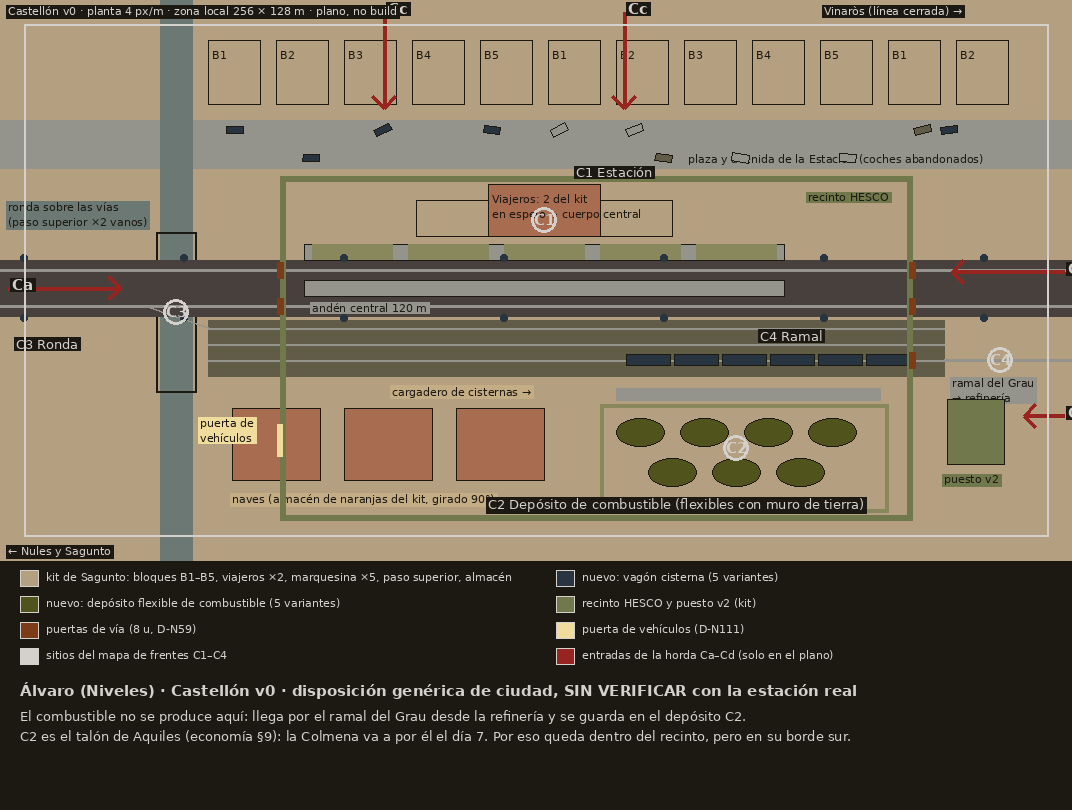
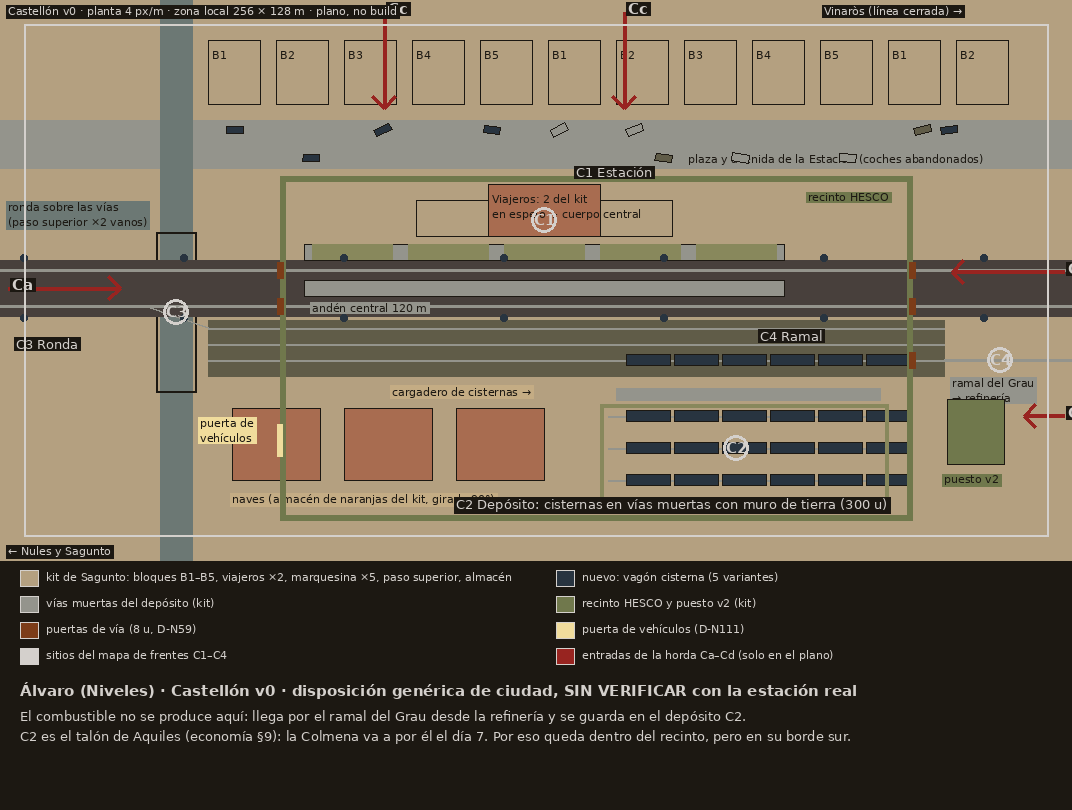
Castellón v0: cifras de Hugo y depósito con cisternas
Claude-Session: https://claude.ai/code/session_01A4RyjScdBuNc7GbjKkppYP

Changed region(s): [[0.4002, 0.4938, 0.8619, 0.6481], [0.0, 0.7407, 0.2463, 0.7716], [0.2771, 0.7407, 0.3078, 0.7716]]

diff --git a/docs/niveles/herramientas/plano_castellon_v0.py b/docs/niveles/herramientas/plano_castellon_v0.py
@@ -45,8 +45,9 @@ T(117,86,"Viajeros: 2 del kit\nen espejo + cuerpo central","#1c1812",FS)
 for x in range(150,212,12): rot(x+6,44,11,2.8,0,"#283440")
 T(92,37.8,"cargadero de cisternas →","#1c1812",FS,"#c4ac84")
 R(148,34,214,37,fill="#94948c")
-for i,(x,z) in enumerate([(154,26),(170,26),(186,26),(202,26),(162,16),(178,16),(194,16)]):
-    d.ellipse([P(x-6,z+3.5),P(x+6,z-3.5)],fill="#50541c",outline="#1c1812")
+for z in (14,22,30):
+    L([(146,z),(214,z)],"#94948c",2)
+    for x in range(150,212,12): rot(x+6,z,11,2.8,0,"#283440")
 R(144,6,216,33,outline="#88885c",w=4)
 # naves de logística al suroeste (almacén de naranjas del kit, otra orientación)
 for x in (52,80,108): R(x,14,x+22,32,fill="#a86c50",outline="#1c1812")
@@ -62,7 +63,7 @@ T(196,86.5,"recinto HESCO","#1c1812",FS,"#70784c")
 rot(238,26,14.3,16.4,0,"#70784c"); T(230,16,"puesto v2","#1c1812",FS,"#70784c")
 def sitio(x,z,n,txt,dx,dz):
     d.ellipse([P(x-3.2,z+3.2),P(x+3.2,z-3.2)],outline="#d4d0cc",width=3); T(x-2.4,z+2.2,n,"#d4d0cc",FB); T(x+dx,z+dz,txt,"#d4d0cc",F,"#1c1812")
-sitio(130,79,"C1","C1 Estación",8,14); sitio(178,22,"C2","C2 Depósito de combustible (flexibles con muro de tierra)",-62,-12); sitio(38,56,"C3","C3 Ronda",-40,-6); sitio(244,44,"C4","C4 Ramal",-60,8)
+sitio(130,79,"C1","C1 Estación",8,14); sitio(178,22,"C2","C2 Depósito: cisternas en vías muertas con muro de tierra (300 u)",-70,-12); sitio(38,56,"C3","C3 Ronda",-40,-6); sitio(244,44,"C4","C4 Ramal",-60,8)
 def flecha(x0,z0,x1,z1,lab):
     L([(x0,z0),(x1,z1)],"#982420",4); a=np.arctan2(z1-z0,x1-x0)
     for s in (2.6,-2.6): L([(x1,z1),(x1-4*np.cos(a+s*0.3),z1-4*np.sin(a+s*0.3))],"#982420",4)
@@ -72,7 +73,7 @@ R(0,0,256,128,outline="#d4d0cc",w=2)
 T(-4,133,"Castellón v0 · planta 4 px/m · zona local 256 × 128 m · plano, no build","#d4d0cc",FS,"#1c1812")
 T(-4,-2,"← Nules y Sagunto","#d4d0cc",FS,"#1c1812"); T(200,133,"Vinaròs (línea cerrada) →","#d4d0cc",FS,"#1c1812")
 ly=H+10
-items=[("#b4a080","kit de Sagunto: bloques B1–B5, viajeros ×2, marquesina ×5, paso superior, almacén"),("#283440","nuevo: vagón cisterna (5 variantes)"),("#50541c","nuevo: depósito flexible de combustible (5 variantes)"),("#70784c","recinto HESCO y puesto v2 (kit)"),("#7c3c18","puertas de vía (8 u, D-N59)"),("#f0dc9c","puerta de vehículos (D-N111)"),("#d4d0cc","sitios del mapa de frentes C1–C4"),("#982420","entradas de la horda Ca–Cd (solo en el plano)")]
+items=[("#b4a080","kit de Sagunto: bloques B1–B5, viajeros ×2, marquesina ×5, paso superior, almacén"),("#283440","nuevo: vagón cisterna (5 variantes)"),("#94948c","vías muertas del depósito (kit)"),("#70784c","recinto HESCO y puesto v2 (kit)"),("#7c3c18","puertas de vía (8 u, D-N59)"),("#f0dc9c","puerta de vehículos (D-N111)"),("#d4d0cc","sitios del mapa de frentes C1–C4"),("#982420","entradas de la horda Ca–Cd (solo en el plano)")]
 for i,(c,t) in enumerate(items):
     x=20+(i%2)*W//2; y=ly+(i//2)*26
     d.rectangle([x,y,x+18,y+16],fill=c,outline="#d4d0cc"); d.text((x+26,y),t,fill="#d4d0cc",font=FS)

diff --git a/docs/niveles/castellon-nivel.md b/docs/niveles/castellon-nivel.md
@@ -8,7 +8,7 @@ Encargo de Eugenio (7-nov, 09:03): «manda a alguien a diseñar otra estación i
   - es la **única fuente de combustible** (60 u al día, la refinería; economía §2), y sin combustible no se mueve ningún tren;
   - es **el talón de Aquiles**: la Colmena va a por ella el día 7 (D-N, idea de Hugo, ya en el guion).
   - Valencia-Nord no sirve como segunda estación, porque es un nido y nunca es segura (D-N14). Teruel llega el día 5 y queda lejos, en el interior.
-- **Castellón se monta casi entera con el kit de Sagunto, combinado de otra manera**, y solo lleva **dos piezas nuevas**: el vagón cisterna y el depósito flexible de combustible. Lo propio de cada estación sale de lo que produce, no de un arte distinto.
+- **Castellón se monta casi entera con el kit de Sagunto, combinado de otra manera**, y solo lleva **una pieza nueva**: el vagón cisterna. Lo propio de cada estación sale de lo que produce, no de un arte distinto.
 - **Toda estación reclamada se visita igual que Sagunto**: desde el mapa, se entra en su zona de 256 × 128 m. Se propone un bucle de trenes (§4) que da a cada visita algo que hacer.
 
 ## 1. Disposición (coordenadas locales de la zona, vía principal a lo largo de X)
@@ -22,14 +22,12 @@ Encargo de Eugenio (7-nov, 09:03): «manda a alguien a diseñar otra estación i
 | **Haz de mercancías** de 3 vías | Z 44 / 48 / 52, X 46–230 | Donde se forman los trenes de cisternas | Vía del kit |
 | **Ramal del Grau** | Sale por el este en Z 44 | Une la estación con la refinería y el puerto (SIN VERIFICAR con el trazado real) | Vía del kit. Por aquí llega el combustible |
 | **Cargadero de cisternas** | X 148–214, Z 34–37 | Donde se llenan los trenes de combustible | `muelle_mercancias` de Sagunto (v0–v5), puesto en otra función |
-| **Depósito de combustible del ejército** | X 144–216, Z 6–33 | El ejército guarda en la estación lo que manda la refinería, para no depender del ramal cada día | **Nuevo**: depósitos flexibles con muro de tierra, como los de las fotos H8 (FARP) de Paula |
+| **Depósito de combustible** | X 144–216, Z 6–33 | El ejército guarda en la estación lo que manda la refinería, aparcando cisternas llenas en tres vías muertas rodeadas de un muro de tierra | Vía del kit y vagones cisterna. **Castellón empieza con 1 depósito hecho: 100 + 200 = 300 u**, que son 5 días de producción (Hugo, `docs/economia/castellon-bucle.md`). Cada cisterna representa unas 15 u (21 cisternas = 300 u), y las que se ven llenas o vacías dicen el stock |
 | **Naves de logística** | X 52–130, Z 14–32 | Polígono junto a la estación | `almacen_naranjas` de Sagunto girado 90° |
 | **Recinto de HESCO** | X 64–222, Z 4–90 | **Lo levantaron los supervivientes de la ciudad.** Al reclamar Castellón se hereda dañado | HESCO y puertas del kit (dos de vía en cada extremo, una de vía para el ramal y la puerta de vehículos D-N111 al oeste) |
 | **Puesto v2** | (238; 26), fuera del recinto | Cubre la cabeza del ramal, por donde entra el combustible | `puesto_frente` |
 
-Recuento: **unas 14 piezas del kit y 2 nuevas.** De cada pieza nueva hacen falta 5 variantes (regla de Eugenio):
-- **Vagón cisterna**: limpio, oxidado, con la escalera arrancada, con la chapa abollada y quemado (este último como resto).
-- **Depósito flexible**: lleno, a medias, vacío y arrugado, con una lona encima y roto en un charco seco.
+Recuento: **unas 14 piezas del kit y 1 nueva.** Hacen falta 5 variantes del **vagón cisterna** (regla de Eugenio): limpio, oxidado, con la escalera arrancada, con la chapa abollada y quemado. Además, un decal de lleno o vacío, para que el stock se lea en el depósito. Hugo confirmó que el depósito no necesita una pieza nueva.
 
 ## 2. Sitios del mapa de frentes y entradas de la horda
 - **C1 Estación** (130; 79): el recinto.
@@ -46,18 +44,18 @@ Recuento: **unas 14 piezas del kit y 2 nuevas.** De cada pieza nueva hacen falta
 ## 4. Bucle entre estaciones (lo que se ve dentro; los números son de Hugo)
 1. **Cargar en origen.** En Sagunto, el tren se carga de materiales (80 al día, la acería), munición y personas. En el andén se ven los palés y la gente esperando.
 2. **Viajar.** Por el mapa, con la ETA y el riesgo de emboscada (desmonte, Palancia y Mijares están por el camino).
-3. **Descargar en destino.** En Castellón, el tren para en el andén central. Los palés pasan al almacén, y se ve el montón crecer junto a las naves. Las personas bajan y van al edificio de viajeros, que hace de cuartel. La carga y la descarga duran 4 h por viaje (economía §3).
+3. **Descargar en destino.** En Castellón, el tren para en el andén central. **Un tren lleva 100 u en 5 vagones de 20, y cada vagón deja un montón visible** en el andén y después junto a las naves (Hugo; solo visual, SIN VERIFICAR). Caben unas 30 personas por tren (Hugo, SIN VERIFICAR: el R2 no tiene capacidad en ningún CSV). Las personas bajan y van al edificio de viajeros, que hace de cuartel. La carga y la descarga duran 4 h por viaje (economía §3), fijas: solo el andén de Sagunto las rebaja un 25 %. Las grúas y el muelle de Castellón son decorado.
 4. **Construir.** Con los materiales que han llegado se repara el recinto heredado tramo a tramo (D-N123: 1 u repara 5.000), o se amplía. Lo hacen los obreros de la guarnición, y la obra se ve con el estado «en reparación» del muro de Teo.
-5. **Producir.** Con la plantilla completa (30 personas), Castellón rinde el 100 %. Con más gente, hasta el doble (economía §2). El combustible llega por el ramal y llena el depósito C2: los depósitos flexibles se ven llenos, a medias o vacíos según el stock. Esto es una de las 5 variantes, y aquí sirve para dar información.
-6. **Volver cargado.** El tren se llena en el cargadero de cisternas y vuelve a Sagunto con combustible. Con eso se cierra el bucle: Sagunto pone materiales y gente, y Castellón pone combustible.
+5. **Producir.** Con 30 personas, Castellón rinde el 100 %, y con 90 el ×2 (tope de 250 y mínimo de 24; Hugo). El combustible llega por el ramal y llena el depósito C2: las cisternas llenas o vacías dicen el stock. Qué pasa al llenarse los 300 u está SIN VERIFICAR (Hugo se lo pregunta a Nacho).
+6. **Volver cargado.** El tren se llena en el cargadero de cisternas y vuelve a Sagunto con combustible. Con eso se cierra el bucle: Sagunto pone materiales y gente, y Castellón pone combustible. **Hugo**: un viaje redondo dura ~7,3 h, así que salen 2 viajes al día con un tren (hasta 200 u de combustible, gastando 16). Si carga en los dos sentidos, ~1,5 viajes al día, que también cuadra pero está sin medir. Castellón pesa ×1,5 para la Colmena (D-N34).
 - Nules (`nules-nivel.md`) es el mismo bucle con víveres, y empieza con la fundación.
-- **Pendiente de Hugo** (se lo he pedido): cuánto ocupa una descarga en el andén, cuántas personas caben en un tren, dónde y cuánto se almacena el combustible (300 u se llenan en 5 días) y si el bucle mínimo le cuadra.
+- Las cifras del bucle son de Hugo (`docs/economia/castellon-bucle.md`). Cómo se entra en cada estación y la plantilla por tamaño las define Lucía en `docs/diseno-red-estaciones.md`, y mi §3 se ajusta a lo que ella decida.
 
 ## 5. Pendiente
-- **Hugo**: lo del §4, más el coste del recinto heredado (488 m de perímetro) y en qué estado se hereda.
-- **Teo**: vagón cisterna y depósito flexible, con 5 variantes cada uno, y el cuerpo central del edificio de viajeros.
+- **Hugo**: el coste del recinto heredado (488 m de perímetro) y en qué estado se hereda.
+- **Teo**: el vagón cisterna (5 variantes y el decal de lleno o vacío) y el cuerpo central del edificio de viajeros.
 - **Paula**: la estación de Castellón y el ramal del Grau, si hay fotos libres.
 - **Nacho y Marcos**: el dato por estación (§3), después del MVP.
-- **FPS**: 12 bloques, 2 edificios de viajeros, 5 marquesinas, unos 20 coches, 6 cisternas, 7 depósitos y el recinto. Menos vegetación que Sagunto. Hay que medirlo (D-N70).
+- **FPS**: 12 bloques, 2 edificios de viajeros, 5 marquesinas, unos 20 coches, unas 27 cisternas y el recinto. Menos vegetación que Sagunto. Hay que medirlo (D-N70).
 
 — Álvaro (Niveles) · [retrato](/mnt/project-files/equipo/retrato_alvaro_64_x4.png)
